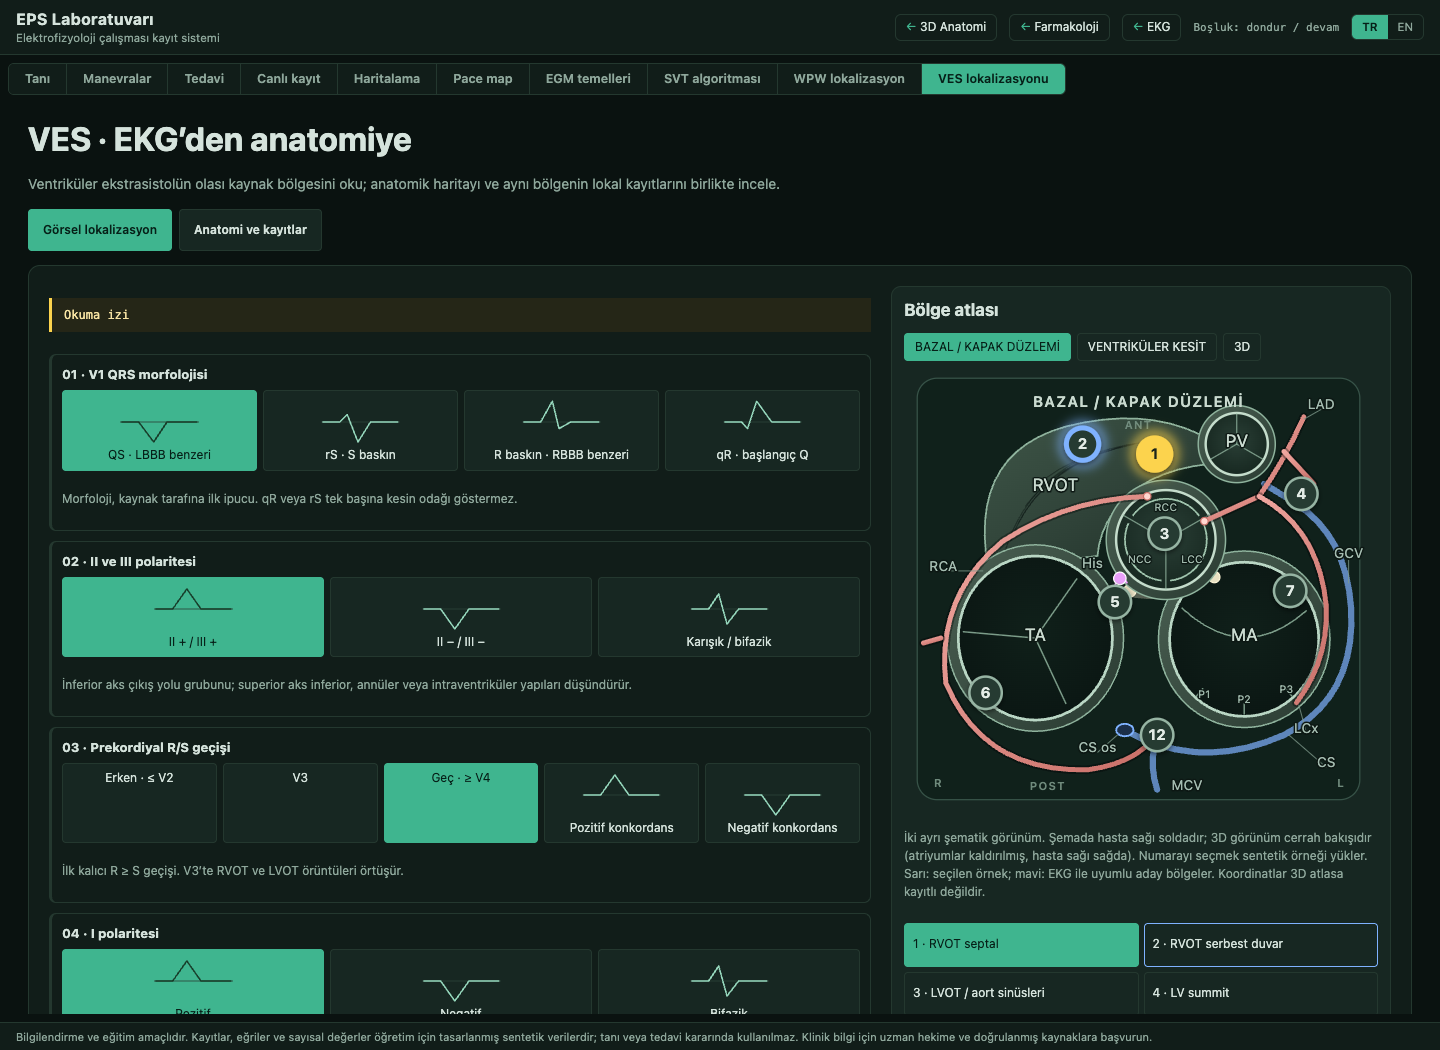
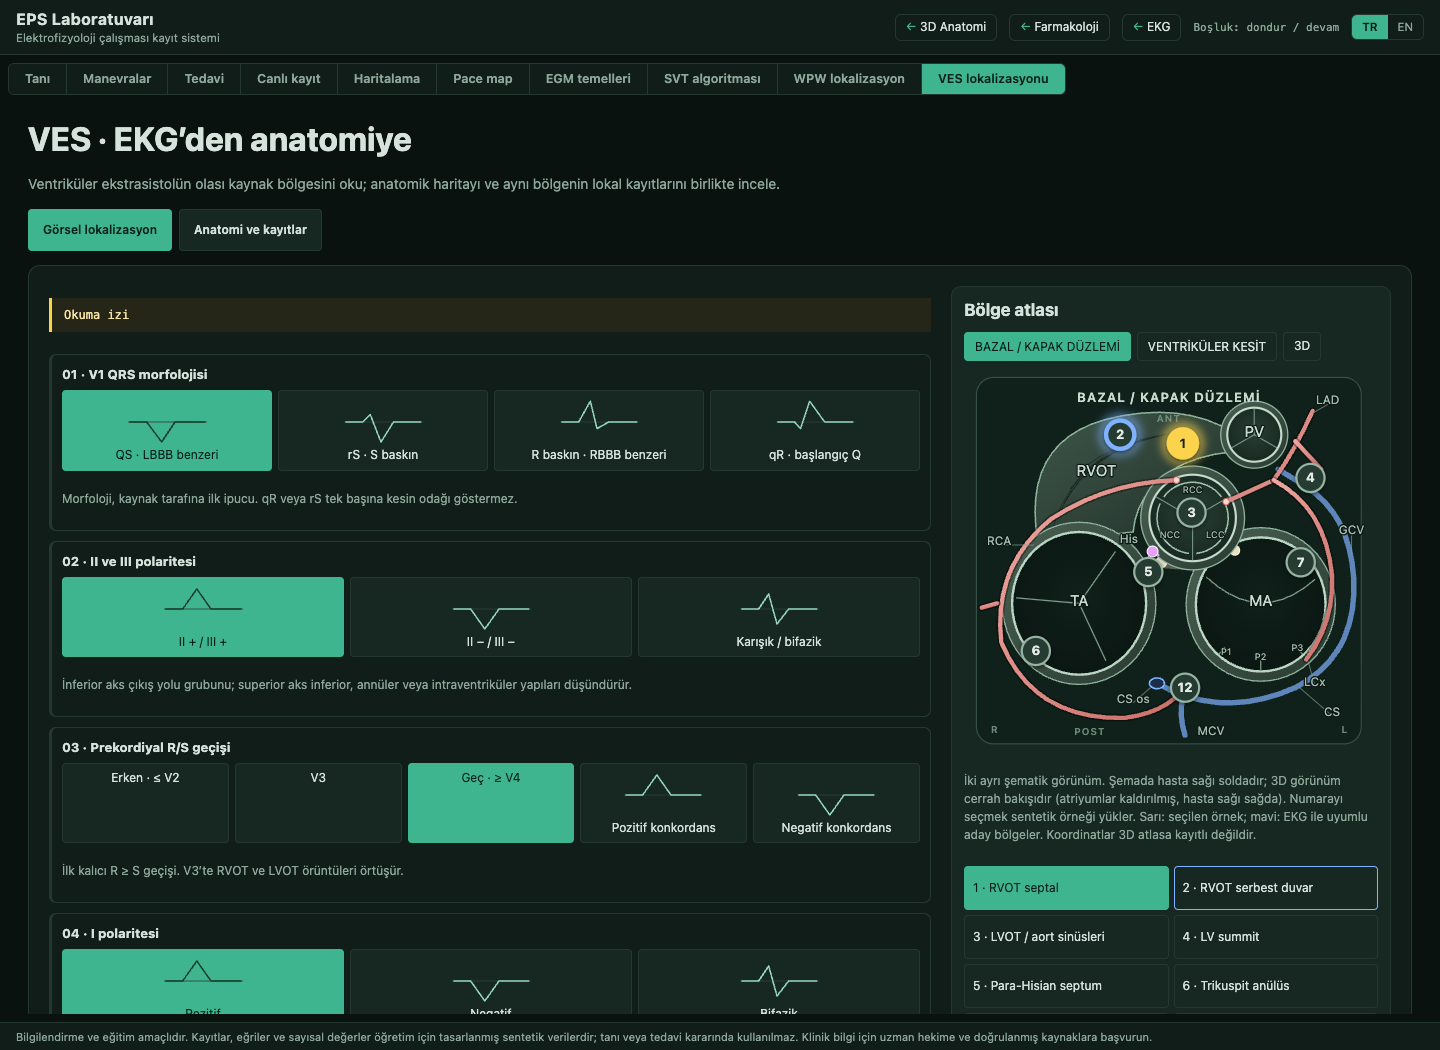
fix(eps): redraw the VES ventricular cutaway, smaller atlas
Replace the boxy cutaway with a four-chamber-style long-axis section:
one epicardial outline with a thin RV free wall, thick LV wall and the
septum between the two cavities; the aortic root over the septal crest;
tricuspid and mitral annuli with their leaflets; RV anterior papillary
muscle at the moderator band insertion; LV anterolateral and
posteromedial papillary muscles with chordae; His at the membranous
septum, RBB down the RV septal surface into the moderator band, LBB
fanning into LAF and LPF. Chamber markers move onto those structures.

The atlas is capped at 400 px (or 56vh) in a 440 px column on both
pages so it no longer dominates the layout.

diff --git a/src/eps/ves-loc-map.js b/src/eps/ves-loc-map.js
@@ -105,37 +105,40 @@ function basalView(doc, g, uid, t) {
   label(doc, g, 22, 334, 'R', 'ves-map-axis'); label(doc, g, 346, 334, 'L', 'ves-map-axis'); label(doc, g, 183, 46, 'ANT', 'ves-map-axis'); label(doc, g, 110, 336, 'POST', 'ves-map-axis');
 }
 
-/** Long-axis cutaway: RV on the viewer's left, LV on the right, apex down. */
+/** Four-chamber-style long-axis cutaway: RV on the viewer's left, LV on the right, apex down. */
 function cutawayView(doc, g, uid, t) {
-  // Epicardium and the two cavities; the septum is the myocardium between them.
-  g.append(s(doc, 'path', { d: 'M440 96 Q412 190 470 282 Q530 348 616 336 Q738 314 748 188 Q754 70 660 54 Q588 44 548 60 Q490 66 440 96 Z', class: 'ves-map-myo', fill: `url(#${uid}-myo)` }));
-  g.append(s(doc, 'path', { d: 'M466 118 Q440 198 496 272 Q536 304 574 290 Q560 232 566 162 Q568 120 554 98 Q506 92 466 118 Z', class: 'ves-map-cavity', fill: `url(#${uid}-cavity)` }));
-  g.append(s(doc, 'ellipse', { cx: 656, cy: 198, rx: 62, ry: 106, class: 'ves-map-cavity', fill: `url(#${uid}-cavity)` }));
-  for (let i = 0; i < 7; i++) g.append(s(doc, 'path', { d: `M${580 + i} ${120 + i * 26} q6 6 0 12`, class: 'ves-map-fiber' }));
-  // RV trabeculae and the moderator band running from the septum to the anterior papillary muscle.
-  for (const d of ['M480 150 q10 8 0 16', 'M470 200 q12 6 0 14', 'M498 236 q10 6 0 12', 'M520 262 q10 6 0 12']) g.append(s(doc, 'path', { d, class: 'ves-map-trabecula' }));
-  g.append(s(doc, 'path', { d: 'M566 206 Q520 228 476 262', class: 'ves-map-muscle' }));
-  g.append(s(doc, 'path', { d: 'M460 250 Q470 238 484 250 Q486 270 470 276 Q456 270 460 250 Z', class: 'ves-map-papillary' }));
-  // Base: tricuspid and mitral annuli with leaflets, chordae to the two LV papillary muscles, outflow stubs.
-  g.append(s(doc, 'path', { d: 'M470 96 L556 96', class: 'ves-map-ring' }), s(doc, 'path', { d: 'M476 96 Q492 128 506 132 M550 96 Q538 126 520 130', class: 'ves-map-leaflet' }));
-  g.append(s(doc, 'path', { d: 'M606 96 L716 96', class: 'ves-map-ring' }), s(doc, 'path', { d: 'M608 96 Q626 150 646 160 M714 96 Q704 140 684 150', class: 'ves-map-leaflet' }));
-  g.append(s(doc, 'path', { d: 'M632 300 Q648 262 666 248 Q676 268 668 292 Q654 310 632 300 Z', class: 'ves-map-papillary' }));
-  g.append(s(doc, 'path', { d: 'M716 228 Q702 196 690 180 Q676 198 684 222 Q700 236 716 228 Z', class: 'ves-map-papillary' }));
-  for (const d of ['M646 160 L660 248', 'M652 160 L666 248', 'M684 150 L690 180', 'M678 150 L688 180']) g.append(s(doc, 'path', { d, class: 'ves-map-chordae' }));
-  g.append(s(doc, 'path', { d: 'M578 96 Q584 70 582 46 Q594 36 610 44 Q608 70 608 96 Z', class: 'ves-map-outflow' }), s(doc, 'path', { d: 'M468 96 Q462 70 466 48 Q480 36 494 46 Q492 70 492 96 Z', class: 'ves-map-outflow' }));
-  // Conduction system: His at the membranous septum; RBB to the moderator band; LBB splitting into anterior and posterior fascicles.
-  g.append(s(doc, 'circle', { cx: 590, cy: 104, r: 5, class: 'ves-map-his' }));
-  g.append(s(doc, 'path', { d: 'M586 108 Q574 160 566 206', class: 'ves-map-purkinje' }));
-  g.append(s(doc, 'path', { d: 'M594 108 Q604 130 608 150', class: 'ves-map-purkinje' }));
-  g.append(s(doc, 'path', { d: 'M608 150 Q640 160 684 180', class: 'ves-map-purkinje' }), s(doc, 'path', { d: 'M608 150 Q612 210 636 262', class: 'ves-map-purkinje' }));
+  // Epicardium; RV and LV cavities; the myocardium between them is the septum.
+  g.append(s(doc, 'path', { d: 'M424 94 C406 170 438 256 516 308 C556 332 588 340 606 334 C652 318 722 272 740 192 C752 132 738 94 716 86 L640 90 L586 92 Z', class: 'ves-map-myo', fill: `url(#${uid}-myo)` }));
+  g.append(s(doc, 'path', { d: 'M454 100 C440 172 462 238 518 284 C546 302 568 298 570 280 C562 228 564 162 568 104 Z', class: 'ves-map-endo', fill: `url(#${uid}-cavity)` }));
+  g.append(s(doc, 'path', { d: 'M640 98 C694 98 716 146 712 196 C706 258 664 300 622 310 C598 300 588 268 588 222 C588 160 592 116 604 104 Z', class: 'ves-map-endo', fill: `url(#${uid}-cavity)` }));
+  // Base: aortic root over the septal crest, tricuspid and mitral annuli with leaflets.
+  g.append(s(doc, 'path', { d: 'M588 100 C582 76 590 54 602 48 L626 48 C638 54 646 76 640 100', class: 'ves-map-outflow' }));
+  for (const [x1, x2] of [[456, 566], [642, 714]]) g.append(s(doc, 'line', { x1, y1: 98, x2, y2: 98, class: 'ves-map-ring' }));
+  for (const d of ['M460 100 Q470 128 494 142', 'M564 102 Q560 128 546 140', 'M644 100 Q648 130 664 150', 'M712 100 Q708 128 696 146']) g.append(s(doc, 'path', { d, class: 'ves-map-valve-leaflet' }));
+  // Papillary muscles: RV anterior (moderator band insertion), LV anterolateral and posteromedial.
+  const pm = [
+    'M498 258 C502 248 514 246 520 254 C522 266 512 274 502 270 Z',
+    'M712 198 C700 198 690 212 688 228 C694 238 708 238 714 228 Z',
+    'M612 290 C618 272 634 262 650 266 C656 280 646 296 628 302 Z'
+  ];
+  for (const d of pm) g.append(s(doc, 'path', { d, class: 'ves-map-papillary' }));
+  for (const d of ['M509 250 L494 142', 'M664 150 L692 214', 'M696 146 L704 202', 'M664 150 L640 266', 'M696 146 L648 268']) g.append(s(doc, 'path', { d, class: 'ves-map-chordae' }));
+  g.append(s(doc, 'path', { d: 'M568 232 Q542 238 514 256', class: 'ves-map-muscle' }));
+  // Conduction: His at the membranous septum; RBB down the RV septal surface into the moderator band; LBB fanning into LAF and LPF.
+  g.append(s(doc, 'path', { d: 'M582 116 C572 158 570 198 566 230 Q540 238 514 254', class: 'ves-map-purkinje' }));
+  g.append(s(doc, 'path', { d: 'M592 118 C600 136 604 148 606 160', class: 'ves-map-purkinje' }));
+  g.append(s(doc, 'path', { d: 'M606 160 Q650 172 692 214', class: 'ves-map-purkinje' }), s(doc, 'path', { d: 'M606 160 C602 206 610 248 630 276', class: 'ves-map-purkinje' }));
+  g.append(s(doc, 'circle', { cx: 587, cy: 112, r: 4.5, class: 'ves-map-his' }));
   // Labels.
-  label(doc, g, 500, 170, 'RV', 'ves-map-label'); label(doc, g, 660, 128, 'LV', 'ves-map-label'); label(doc, g, 618, 330, 'Apex', 'ves-map-caption');
-  label(doc, g, 595, 66, 'Ao', 'ves-map-caption'); label(doc, g, 479, 66, 'PA', 'ves-map-caption');
-  label(doc, g, 513, 84, 'TV', 'ves-map-tiny'); label(doc, g, 661, 84, 'MV', 'ves-map-tiny');
-  label(doc, g, 586, 236, 'IVS', 'ves-map-tiny'); label(doc, g, 612, 122, 'His', 'ves-map-caption');
-  label(doc, g, 520, 300, 'RBB', 'ves-map-tiny', [560, 214]); label(doc, g, 730, 160, 'LAF', 'ves-map-tiny', [700, 172]); label(doc, g, 730, 290, 'LPF', 'ves-map-tiny', [630, 250]);
-  label(doc, g, 430, 300, 'Mod. band', 'ves-map-tiny', [478, 262]); label(doc, g, 700, 320, 'PM', 'ves-map-tiny', [660, 296]); label(doc, g, 740, 230, 'AL', 'ves-map-tiny', [714, 220]);
-  label(doc, g, 568, 28, t.chambers, 'ves-map-title');
+  label(doc, g, 510, 196, 'RV', 'ves-map-label'); label(doc, g, 660, 206, 'LV', 'ves-map-label');
+  label(doc, g, 614, 78, 'Ao', 'ves-map-caption'); label(doc, g, 511, 90, 'TV', 'ves-map-tiny'); label(doc, g, 678, 90, 'MV', 'ves-map-tiny');
+  label(doc, g, 579, 190, 'IVS', 'ves-map-tiny ves-map-vertical');
+  label(doc, g, 556, 124, 'His', 'ves-map-caption', [583, 114]);
+  label(doc, g, 470, 214, 'RBB', 'ves-map-tiny', [566, 206]); label(doc, g, 452, 304, 'Mod. band', 'ves-map-tiny', [520, 250]);
+  label(doc, g, 668, 160, 'LAF', 'ves-map-tiny'); label(doc, g, 666, 250, 'LPF', 'ves-map-tiny', [614, 248]);
+  label(doc, g, 738, 252, 'ALPM', 'ves-map-tiny', [712, 232]); label(doc, g, 692, 318, 'PMPM', 'ves-map-tiny', [644, 294]);
+  label(doc, g, 548, 336, 'Apex', 'ves-map-caption', [596, 332]);
+  label(doc, g, 568, 26, t.chambers, 'ves-map-title');
 }
 
 /** The 3D render as the basal background; markers follow BASAL_3D_SITES. */

diff --git a/src/eps/ves-loc.css b/src/eps/ves-loc.css
@@ -3,7 +3,7 @@
 .ves > .amap-note { margin: 0; max-width: 900px; font-size: 14px; line-height: 1.6; }
 .ves-page { padding: 20px; border-radius: 12px; display: grid; gap: 16px; min-width: 0; }
 .ves h4 { margin: 0; font-size: 17px; }
-.ves-localize-layout { display: grid; grid-template-columns: minmax(300px, 1fr) minmax(0, 500px); gap: 20px; align-items: start; }
+.ves-localize-layout { display: grid; grid-template-columns: minmax(300px, 1fr) minmax(0, 440px); gap: 20px; align-items: start; }
 .ves-findings { display: grid; gap: 10px; min-width: 0; }
 .ves-finding { padding: 10px; border: 1px solid var(--line); border-left: 3px solid var(--line); border-radius: 7px; display: grid; gap: 7px; }
 .ves-finding[data-next=true] { border-left-color: #fcd34d; }
@@ -14,7 +14,7 @@
 .ves-atlas { display: grid; gap: 10px; padding: 12px; background: var(--panel-2); border: 1px solid var(--line); border-radius: 10px; min-width: 0; }
 .ves-map, .ves-ecg, .ves-monitor { display: block; width: 100%; min-width: 0; height: auto; }
 /* The atlas follows the column but never outgrows the reading area; it stays in view while the findings scroll. */
-.ves-map { width: min(100%, 460px, 62vh); margin-inline: auto; }
+.ves-map { width: min(100%, 400px, 56vh); margin-inline: auto; }
 .ves-localize-layout > .ves-atlas { position: sticky; top: 0; }
 .ves-ecg, .ves-monitor { background: #0e1815; border: 1px solid var(--line); border-radius: 8px; }
 .ves-ecg { background: #1a1416; }
@@ -47,6 +47,9 @@
 .ves-map-muscle { fill: none; stroke: #b08a78; stroke-width: 9; stroke-linecap: round; }
 .ves-map-papillary { fill: #a98272; stroke: #d5b2a0; stroke-width: 1.2; }
 .ves-map-chordae { fill: none; stroke: #e9d8cf; stroke-width: .9; opacity: .8; }
+.ves-map-endo { stroke: #a9c8b6; stroke-width: 1.4; }
+.ves-map-valve-leaflet { fill: none; stroke: #d7e8dd; stroke-width: 2.4; stroke-linecap: round; }
+.ves-map-vertical { writing-mode: vertical-rl; }
 .ves-map-trabecula { fill: none; stroke: #4f6a5c; stroke-width: 2.5; stroke-linecap: round; }
 .ves-map-outflow { fill: #14241d; stroke: #b9d6c4; stroke-width: 2; }
 .ves-map-purkinje { fill: none; stroke: #f2b66e; stroke-width: 2.2; stroke-dasharray: 4 3; stroke-linecap: round; }
@@ -78,7 +81,7 @@
 .ves-atlas { display: grid; gap: 10px; padding: 12px; background: var(--panel-2); border: 1px solid var(--line); border-radius: 10px; min-width: 0; }
 .ves-map, .ves-ecg, .ves-monitor { display: block; width: 100%; min-width: 0; height: auto; }
 /* The atlas follows the column but never outgrows the reading area; it stays in view while the findings scroll. */
-.ves-map { width: min(100%, 460px, 62vh); margin-inline: auto; }
+.ves-map { width: min(100%, 400px, 56vh); margin-inline: auto; }
 .ves-localize-layout > .ves-atlas { position: sticky; top: 0; }
 .ves-ecg, .ves-monitor { background: #0e1815; border: 1px solid var(--line); border-radius: 8px; }
 .ves-ecg { background: #1a1416; }
@@ -150,7 +153,7 @@
 .ves-amplitudes .amap-field { text-transform: none; letter-spacing: normal; }
 .ves-amplitudes input { width: 100%; min-width: 0; background: var(--panel-2); border: 1px solid var(--line); border-radius: 4px; padding: 6px; }
 .ves-scar { display: flex; gap: 8px; align-items: center; }
-.ves-record-layout { display: grid; grid-template-columns: minmax(320px, .9fr) minmax(0, 1.1fr); gap: 20px; align-items: start; }
+.ves-record-layout { display: grid; grid-template-columns: minmax(300px, 440px) minmax(0, 1fr); gap: 20px; align-items: start; }
 .ves-anatomy { display: grid; gap: 5px; margin: 0; }
 .ves-anatomy dt { color: #9bcab4; font-size: 12px; font-weight: 600; }
 .ves-anatomy dd { margin: 0 0 8px; font-size: 13px; line-height: 1.55; }

diff --git a/src/eps/ves-loc-model.js b/src/eps/ves-loc-model.js
@@ -12,10 +12,10 @@ export const VES_REGIONS = Object.freeze([
   region('para-his', 5, 'base', [164, 185], 'septal', 'rs', 'inferior', 'v3', 'positive', 130, -25),
   region('tricuspid', 6, 'base', [60, 258], 'annular', 'lbbb', 'superior', 'late', 'positive', 165, -31),
   region('mitral', 7, 'base', [305, 176], 'annular', 'rbbb', 'inferior', 'positive', 'negative', 160, -29),
-  region('papillary-pm', 8, 'chambers', [660, 270], 'papillary', 'rbbb', 'superior', 'v3', 'positive', 165, -27),
-  region('papillary-al', 9, 'chambers', [704, 186], 'papillary', 'rbbb', 'inferior', 'v3', 'negative', 160, -26),
-  region('fascicle', 10, 'chambers', [618, 244], 'fascicular', 'rbbb', 'superior', 'early', 'positive', 115, -22, true),
-  region('moderator', 11, 'chambers', [469, 263], 'band', 'lbbb', 'superior', 'late', 'positive', 155, -26, true),
+  region('papillary-pm', 8, 'chambers', [636, 284], 'papillary', 'rbbb', 'superior', 'v3', 'positive', 165, -27),
+  region('papillary-al', 9, 'chambers', [702, 214], 'papillary', 'rbbb', 'inferior', 'v3', 'negative', 160, -26),
+  region('fascicle', 10, 'chambers', [606, 232], 'fascicular', 'rbbb', 'superior', 'early', 'positive', 115, -22, true),
+  region('moderator', 11, 'chambers', [540, 244], 'band', 'lbbb', 'superior', 'late', 'positive', 155, -26, true),
   region('crux', 12, 'base', [198, 292], 'inferior', 'lbbb', 'superior', 'early', 'positive', 180, -23)
 ]);
 export const VES_OPTIONS = Object.freeze({
